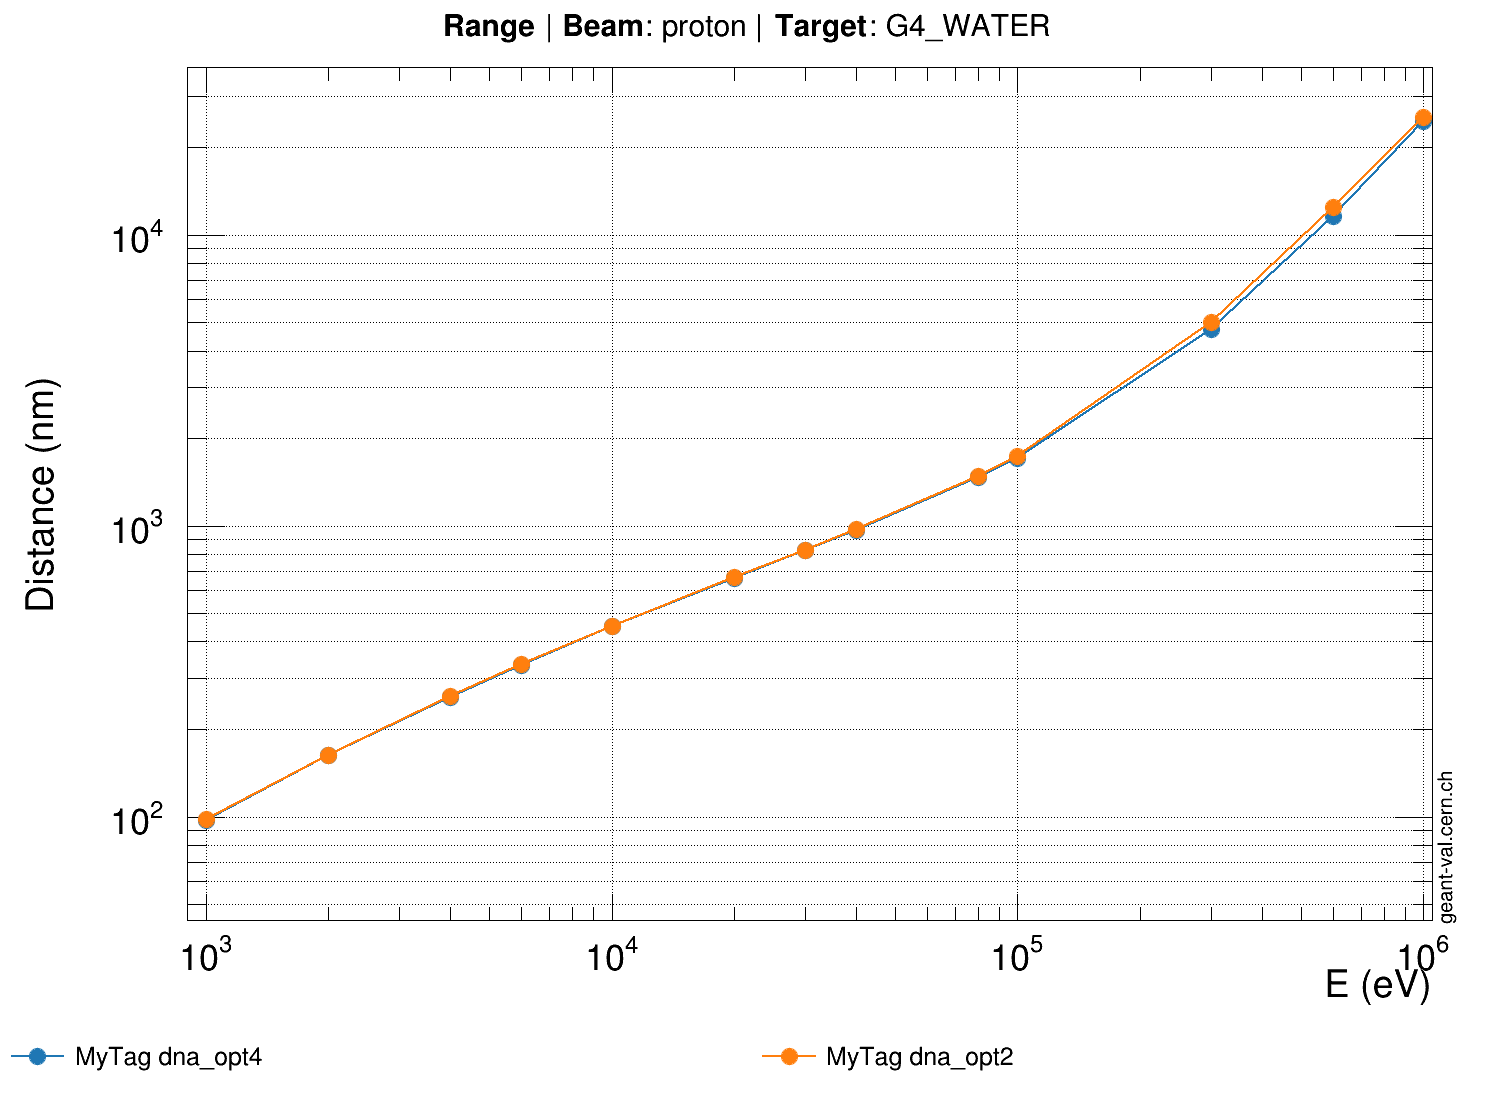
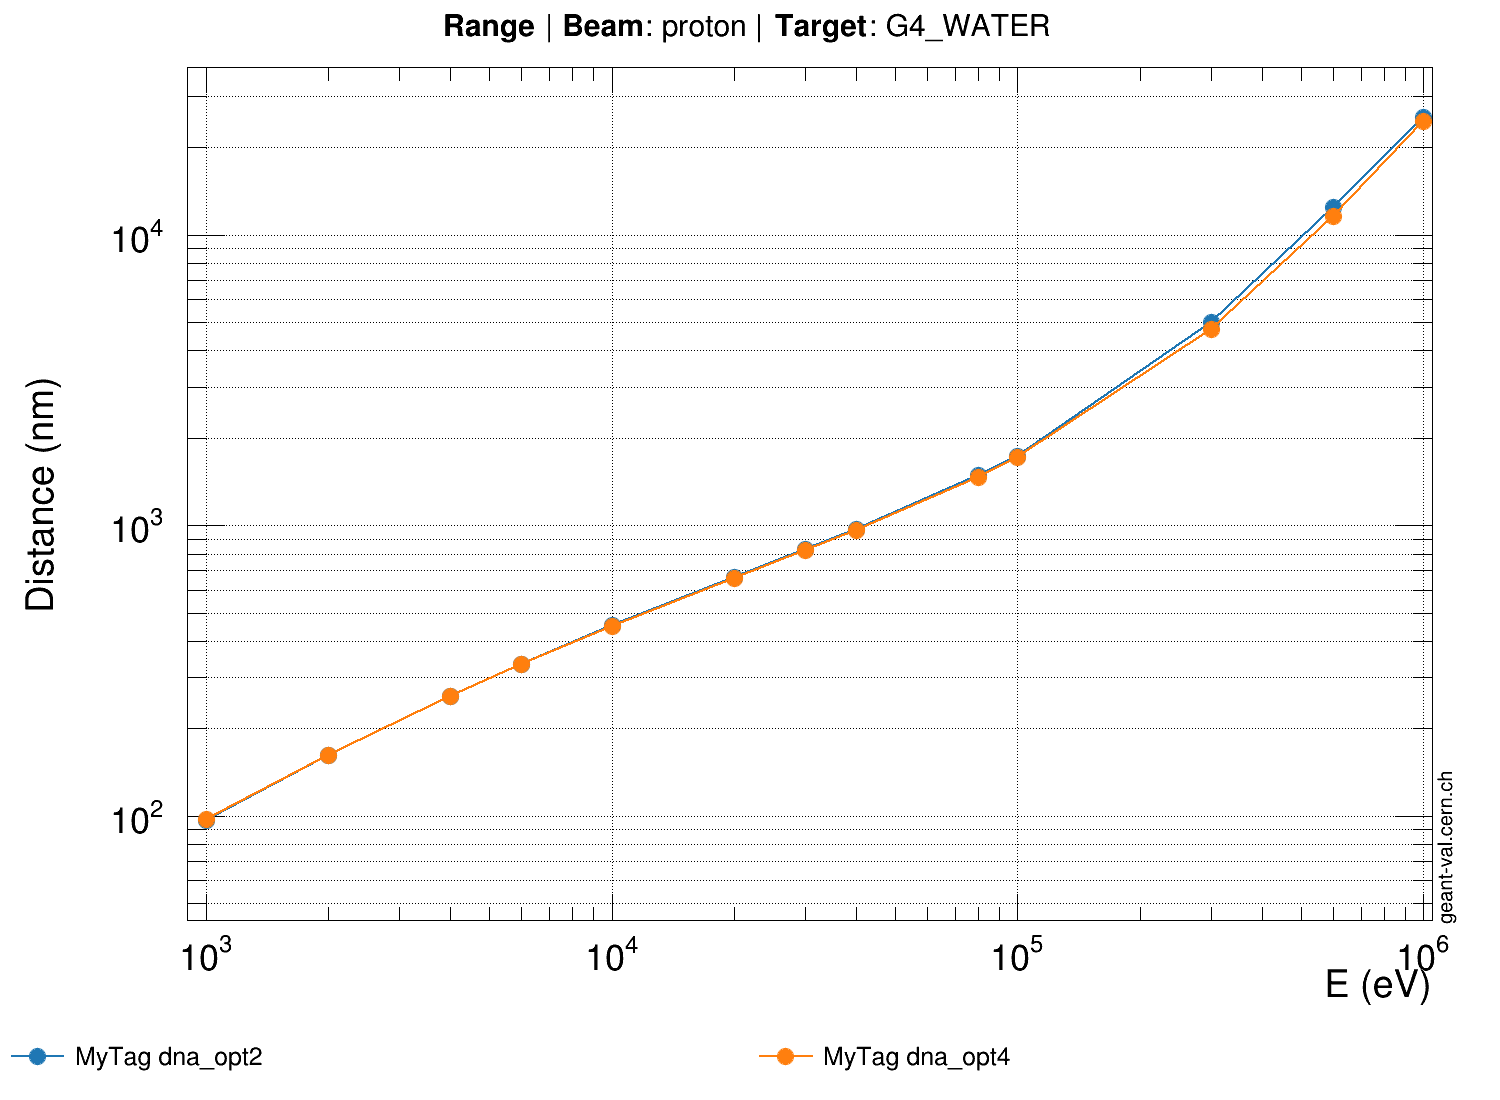
range/proton.conf/MyTag : jeu. juin  1 12:58:42 CEST 2023

diff --git a/assets/OUTPUTJSON/geant4/MyTag/x86_64/range/proton.conf.c b/assets/OUTPUTJSON/geant4/MyTag/x86_64/range/proton.conf.c
@@ -2718,3 +2718,139 @@ double gvp_id-1_yerrors[13] = {
   0,
   0
 };
+// Tool:               GEANT4
+// Version:            MyTag
+// Model:              dna_opt2
+// Observable:         range
+// Target:             G4_WATER
+// Beam Particle:      proton
+// Secondary Particle: None
+
+double gvp_id-1_x[13] = {
+  1000,
+  2000,
+  4000,
+  6000,
+  10000,
+  20000,
+  30000,
+  40000,
+  80000,
+  100000,
+  300000,
+  600000,
+  1e+06
+};
+double gvp_id-1_y[13] = {
+  97.1122,
+  162.311,
+  259.085,
+  334.373,
+  452.351,
+  662.703,
+  830.399,
+  971.682,
+  1485.24,
+  1739.03,
+  5010.93,
+  12487.6,
+  25505.5
+};
+double gvp_id-1_xerrors[13] = {
+  0,
+  0,
+  0,
+  0,
+  0,
+  0,
+  0,
+  0,
+  0,
+  0,
+  0,
+  0,
+  0
+};
+double gvp_id-1_yerrors[13] = {
+  0,
+  0,
+  0,
+  0,
+  0,
+  0,
+  0,
+  0,
+  0,
+  0,
+  0,
+  0,
+  0
+};
+// Tool:               GEANT4
+// Version:            MyTag
+// Model:              dna_opt4
+// Observable:         range
+// Target:             G4_WATER
+// Beam Particle:      proton
+// Secondary Particle: None
+
+double gvp_id-1_x[13] = {
+  1000,
+  2000,
+  4000,
+  6000,
+  10000,
+  20000,
+  30000,
+  40000,
+  80000,
+  100000,
+  300000,
+  600000,
+  1e+06
+};
+double gvp_id-1_y[13] = {
+  97.5713,
+  162.432,
+  258.069,
+  332.877,
+  451.097,
+  660.954,
+  823.597,
+  965.654,
+  1468.11,
+  1715,
+  4749,
+  11560.4,
+  24690.5
+};
+double gvp_id-1_xerrors[13] = {
+  0,
+  0,
+  0,
+  0,
+  0,
+  0,
+  0,
+  0,
+  0,
+  0,
+  0,
+  0,
+  0
+};
+double gvp_id-1_yerrors[13] = {
+  0,
+  0,
+  0,
+  0,
+  0,
+  0,
+  0,
+  0,
+  0,
+  0,
+  0,
+  0,
+  0
+};
